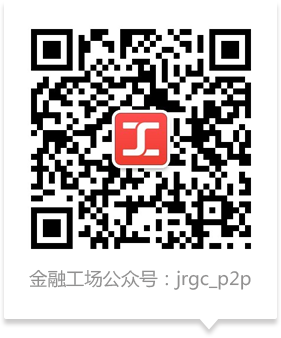
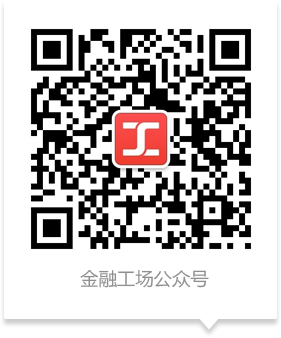
17：45

Changed region(s): [[0.1139, 0.7988, 0.911, 0.858]]

diff --git a/apps/web/guide-cookbook/react/index.jsx b/apps/web/guide-cookbook/react/index.jsx
@@ -436,21 +436,21 @@ var Content = React.createClass({
                                 <img src="images/phone-icon.png"/>
                             </div>
                             <span className="strong-text">手机客户端</span>
-                            <p className="text">用户可扫描上方二维码下载金融工场<br />手机APP手机APP。快捷支付，随手可投。</p>
+                            <p className="text">用户可扫描上方二维码下载金融工场手机APP手机APP。快捷支付，随手可投。</p>
                         </li>
                         <li className="weChat-li">
                             <div className="img">
                                 <img src="images/weChat-icon.png"/>
                             </div>
                             <span className="strong-text">微信公众号</span>
-                            <p className="text">打开微信扫描二维码，关注金融工场<br />，轻松自如投资，第一时间<br />了解最新活动。</p>
+                            <p className="text">打开微信扫描二维码，关注金融工场，轻松自如投资，第一时间了解最新活动。</p>
                         </li>
                         <li className="web-li">
                             <div className="img">
                                 <img src="images/web-icon.png"/>
                             </div>
                             <span className="strong-text">手机WAP版</span>
-                            <p className="text">用户可通过手机浏览器输入金融工场网<br/>址：www.9888keji.com，或直接搜索“金融<br />工场”，即可快捷注册投资。</p>
+                            <p className="text">用户可通过手机浏览器输入金融工场网址：www.9888keji.com，或直接搜索“金融工场”，即可快捷注册投资。</p>
                         </li>
                     </ul>
                 </div>

diff --git a/lib/templates/web/sidebar-fn.swig.html b/lib/templates/web/sidebar-fn.swig.html
@@ -21,7 +21,7 @@
 
         <div class="qrcode">
             <img src="images/global-sidebar/icon-sidebar-fn-wx-qrcode.png">
-            <div>公众号jrgc_p2p</div>
+            <div>公众号</div>
         </div>
     </a>
 

diff --git a/apps/web/guide-cookbook/less/index.less b/apps/web/guide-cookbook/less/index.less
@@ -294,7 +294,7 @@
     margin: 0 auto;
 
     .title-text {
-      font-size: 16px;
+      font-size: 14px;
       line-height: 26px;
       color: #fff;
     }
